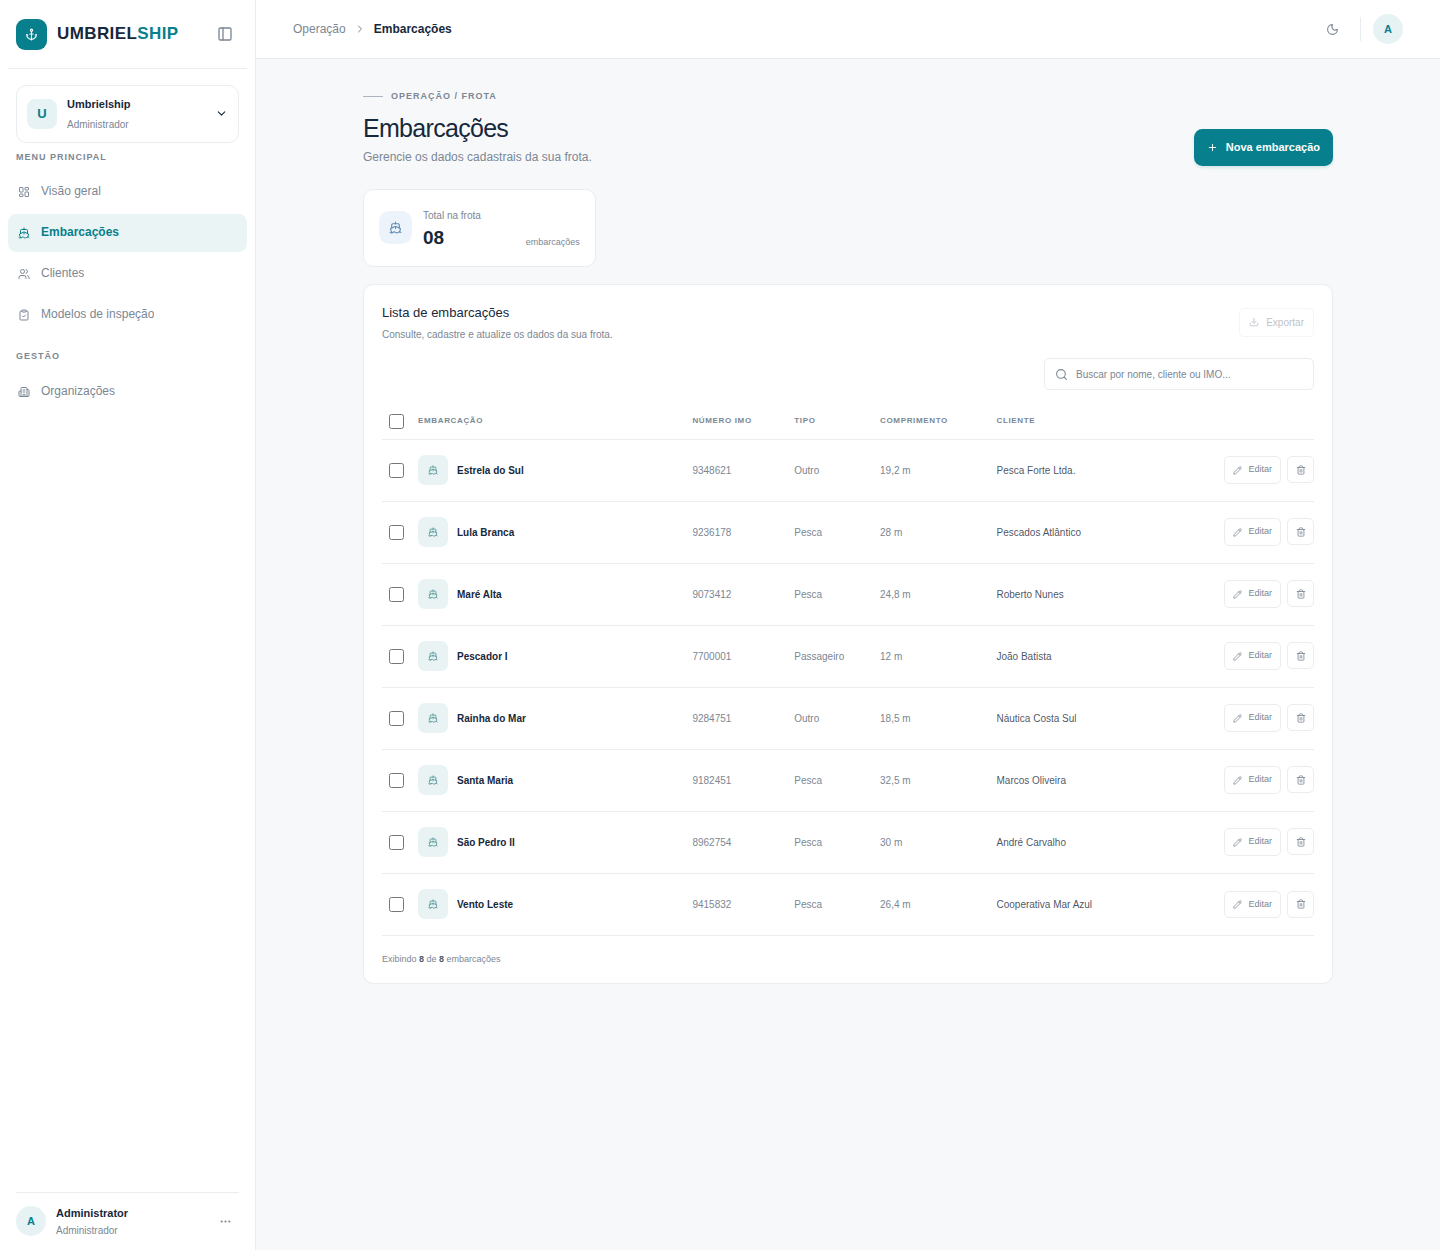
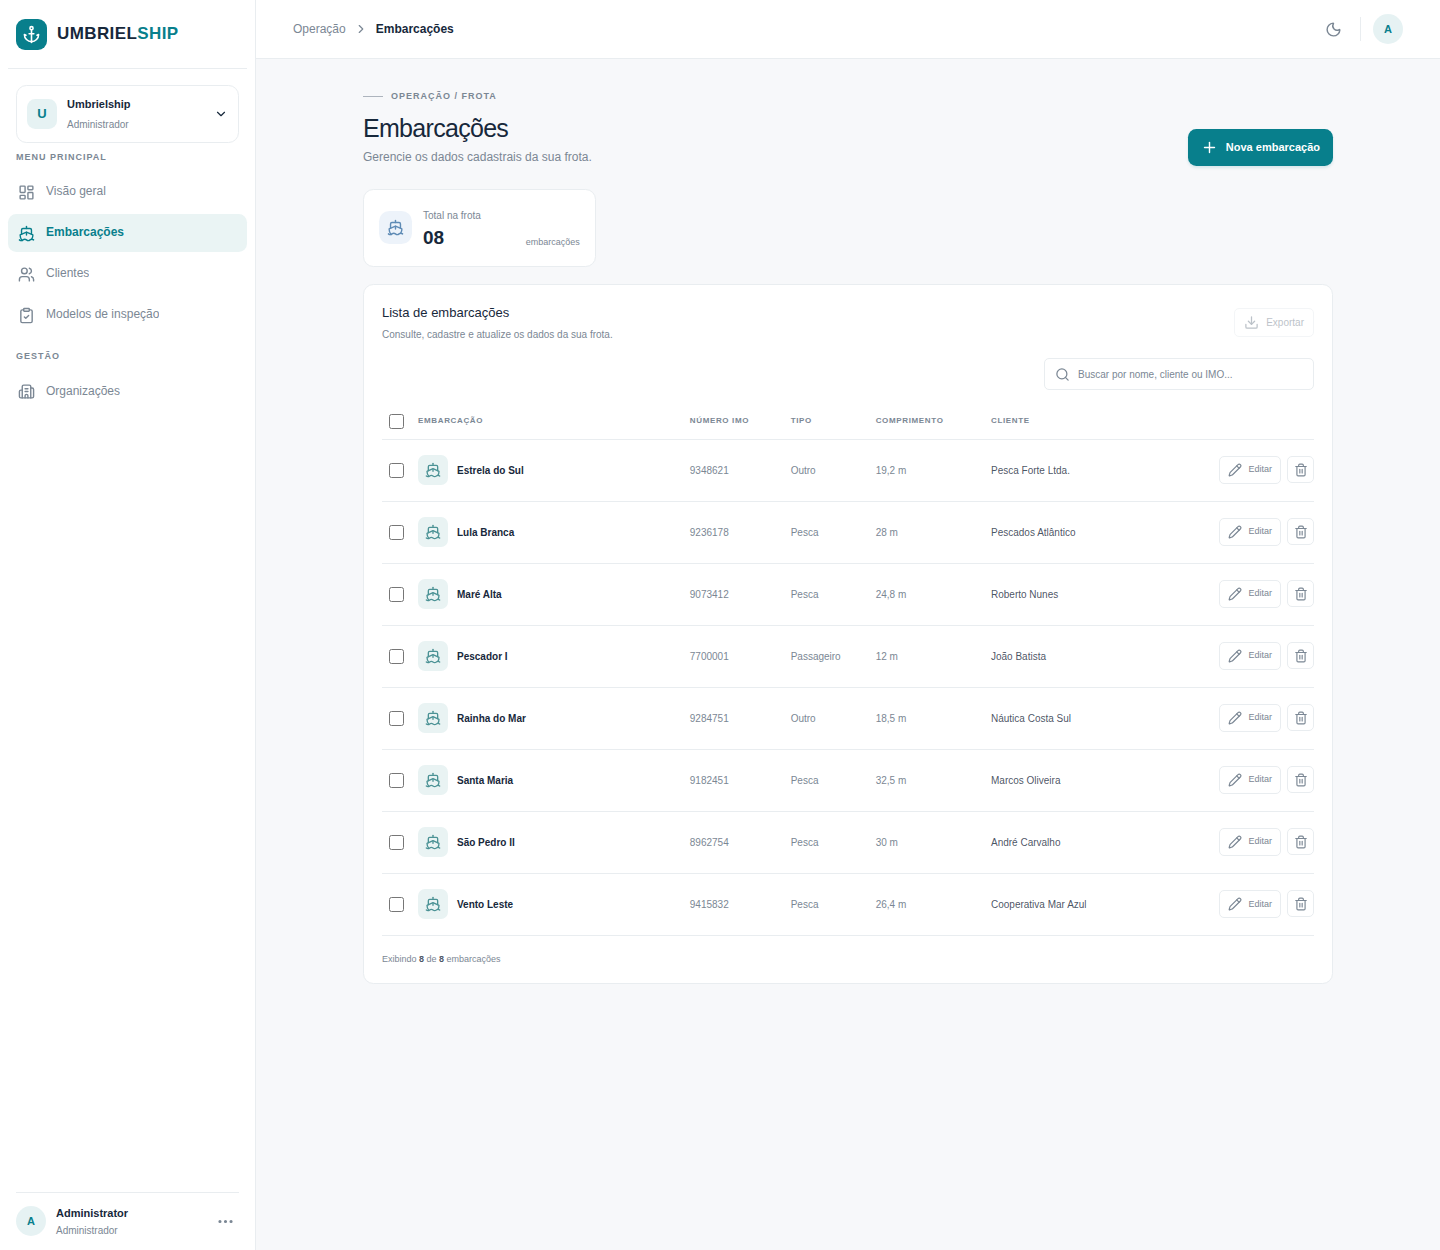
docs(specs): close the customer UI redesign findings and retake the pictures

diff --git a/.specs/features/customer-ui-redesign/verification.md b/.specs/features/customer-ui-redesign/verification.md
@@ -71,9 +71,9 @@ Diff reviewed: `34f79a9..3b4c083`. The full web suite (`ng test`, 36 files, 155 
 
 | Finding | Evidence | Fix | Closed |
 | --- | --- | --- | --- |
-| 1. Editing the same record again after "Cancelar" opens the drawer with the cancelled typed values, not the record's values (AC 22, 42, 48) | V1 (`Editar Atlantic` -> type -> Cancelar -> `Editar Atlantic`): `expected 'Typed and cancelled' to be 'Atlantic'`; V2 (vessel list) and V10 (Vessel detail): `expected 'Typed and cancelled' to be 'Aurora'`. `closeSheet()` keeps `editing()` (customer-list.ts:106, vessel-list.ts:121) and the detail binds `[vessel]="vessel()"`, so the input never changes and the form's `effect` on `customer()` / `vessel()` does not run again; C22, C42 and C48 open the drawer once | refill the form on every open (call the form's fill from `openEdit` / `openEditVesselSheet`, or clear `editing` on close), and add Editar -> type -> Cancelar -> Editar to C22, C42 and C48 | |
-| 2. Deleting the only WorkOrder of page 2 (11 -> 10) leaves the Vessel detail on an empty page 2 that says "Nenhuma ordem vinculada" with no pager back, while the Vessel still has 10 WorkOrders (AC 49, 51, 52) | V3: after the delete and the reload of `skip=10` (`[]`, total 10) the page shows `orders-empty` and no `t-pagination`. The diff hides the pager at `total <= 10` (vessel-detail.html:102) and moved its `ng-content` into the non-empty branch (work-order-list.ts:102); before, it was always rendered. `deleteWorkOrder` never moves `page` back. C52 never asserts "10 -> one page" | after a delete clamp `page` to `Math.max(1, Math.ceil(total / 10))` (or step back when the reloaded page is empty), and test 11 -> page 2 -> delete -> page 1 with 10 rows and no pager, plus 10 WorkOrders -> no pager | |
-| 3. The Vessel detail now prints WorkOrder dates in UTC, so a docking entered late in the evening in Brazil shows the next day, and disagrees with the WorkOrder page (AC 49) | V9 with `TZ=America/Sao_Paulo`: `new Date('2026-11-10T22:00').toISOString()` (what `work-order-form` posts) renders `11 de novembro de 2026` in `work-order-list-ui`; the diff added `: 'UTC'` to both date pipes (work-order-list.ts:62, 68) while `work-order-detail.ts:93` still formats in local time. C49's fixture is `12:00Z`, the same day in every zone | drop the `'UTC'` argument as before the diff, and give C49 a fixture near midnight local time | |
-| 4. On a phone, picking the menu item of the page already open leaves the sidebar panel open (AC 9) | V4: on `/customers`, "Abrir menu" then "Clientes" -> `openMobile()` stays `true`; the panel closes only on `NavigationEnd` (internal-layout.ts:342-351), which a same-URL navigation does not emit. C9 starts from `/` and picks another route | close the panel on the menu link's click (or on `NavigationSkipped` as well), and test picking the open page's item | |
-| 5. The token proofs of C3 and C4 check a subset of Landing door 3, so a wrong value in 16 tokens stays green | C3's grep covers 15 of 21 light tokens, anywhere in `styles.css` (not inside `:root`), missing `--card`, `--popover`, `--secondary-foreground`, `--accent-foreground`, `--input`, `--sidebar-border`; C4's awk covers 10 of 20 dark tokens, missing `--popover`, `--primary-foreground`, `--secondary`, `--secondary-foreground`, `--muted`, `--accent`, `--accent-foreground`, `--destructive`, `--input`, `--ring`. Every value in `styles.css` matches the plan today (checked by hand; built CSS has `--default-font-family: Arial, Helvetica, sans-serif` and `body{...font-size:13px}`) | grep every token of door 3, the light ones inside the `:root` block and the dark ones inside `.dark` | |
-| 6. The diff deletes `inspection-layout.spec.ts`, the only test of inspection AC 32 (the layout header scrolls with the page below 640 px); the new topbar is not sticky, so the rule holds today with no test guarding it | `git diff 34f79a9..HEAD` removes `web/src/package/work-order/inspection/__test__/inspection-layout.spec.ts`; no check of this plan names the rule; `checks.md` `Run web` still includes the deleted path | add an `app-shell.spec.ts` assertion that the topbar carries no `sticky` below `sm`, and drop the dead include from `Run web` | |
+| 1. Editing the same record again after "Cancelar" opens the drawer with the cancelled typed values, not the record's values (AC 22, 42, 48) | V1 (`Editar Atlantic` -> type -> Cancelar -> `Editar Atlantic`): `expected 'Typed and cancelled' to be 'Atlantic'`; V2 (vessel list) and V10 (Vessel detail): `expected 'Typed and cancelled' to be 'Aurora'`. `closeSheet()` keeps `editing()` (customer-list.ts:106, vessel-list.ts:121) and the detail binds `[vessel]="vessel()"`, so the input never changes and the form's `effect` on `customer()` / `vessel()` does not run again; C22, C42 and C48 open the drawer once | refill the form on every open (call the form's fill from `openEdit` / `openEditVesselSheet`, or clear `editing` on close), and add Editar -> type -> Cancelar -> Editar to C22, C42 and C48 | `420572b` - each drawer reloads the record on open; C22, C42, C48 now open, type, Cancelar and open again |
+| 2. Deleting the only WorkOrder of page 2 (11 -> 10) leaves the Vessel detail on an empty page 2 that says "Nenhuma ordem vinculada" with no pager back, while the Vessel still has 10 WorkOrders (AC 49, 51, 52) | V3: after the delete and the reload of `skip=10` (`[]`, total 10) the page shows `orders-empty` and no `t-pagination`. The diff hides the pager at `total <= 10` (vessel-detail.html:102) and moved its `ng-content` into the non-empty branch (work-order-list.ts:102); before, it was always rendered. `deleteWorkOrder` never moves `page` back. C52 never asserts "10 -> one page" | after a delete clamp `page` to `Math.max(1, Math.ceil(total / 10))` (or step back when the reloaded page is empty), and test 11 -> page 2 -> delete -> page 1 with 10 rows and no pager, plus 10 WorkOrders -> no pager | `420572b` - `deleteWorkOrder` steps back to the last page left; C52 `deleting the only order of page 2 goes back to page 1` (10 rows, no pager) |
+| 3. The Vessel detail now prints WorkOrder dates in UTC, so a docking entered late in the evening in Brazil shows the next day, and disagrees with the WorkOrder page (AC 49) | V9 with `TZ=America/Sao_Paulo`: `new Date('2026-11-10T22:00').toISOString()` (what `work-order-form` posts) renders `11 de novembro de 2026` in `work-order-list-ui`; the diff added `: 'UTC'` to both date pipes (work-order-list.ts:62, 68) while `work-order-detail.ts:93` still formats in local time. C49's fixture is `12:00Z`, the same day in every zone | drop the `'UTC'` argument as before the diff, and give C49 a fixture near midnight local time | `420572b` - `UTC` removed from both date pipes; C49 uses 22:00 local on 10 November |
+| 4. On a phone, picking the menu item of the page already open leaves the sidebar panel open (AC 9) | V4: on `/customers`, "Abrir menu" then "Clientes" -> `openMobile()` stays `true`; the panel closes only on `NavigationEnd` (internal-layout.ts:342-351), which a same-URL navigation does not emit. C9 starts from `/` and picks another route | close the panel on the menu link's click (or on `NavigationSkipped` as well), and test picking the open page's item | `420572b` - menu links close the panel on click; C9 `picking the open page item closes the panel too` |
+| 5. The token proofs of C3 and C4 check a subset of Landing door 3, so a wrong value in 16 tokens stays green | C3's grep covers 15 of 21 light tokens, anywhere in `styles.css` (not inside `:root`), missing `--card`, `--popover`, `--secondary-foreground`, `--accent-foreground`, `--input`, `--sidebar-border`; C4's awk covers 10 of 20 dark tokens, missing `--popover`, `--primary-foreground`, `--secondary`, `--secondary-foreground`, `--muted`, `--accent`, `--accent-foreground`, `--destructive`, `--input`, `--ring`. Every value in `styles.css` matches the plan today (checked by hand; built CSS has `--default-font-family: Arial, Helvetica, sans-serif` and `body{...font-size:13px}`) | grep every token of door 3, the light ones inside the `:root` block and the dark ones inside `.dark` | `420572b` - C3 checks all 21 light tokens inside `:root` and the body size inside its block, C4 all 20 dark tokens inside `.dark` |
+| 6. The diff deletes `inspection-layout.spec.ts`, the only test of inspection AC 32 (the layout header scrolls with the page below 640 px); the new topbar is not sticky, so the rule holds today with no test guarding it | `git diff 34f79a9..HEAD` removes `web/src/package/work-order/inspection/__test__/inspection-layout.spec.ts`; no check of this plan names the rule; `checks.md` `Run web` still includes the deleted path | add an `app-shell.spec.ts` assertion that the topbar carries no `sticky` below `sm`, and drop the dead include from `Run web` | `420572b` - C57 `the topbar scrolls with the page below 640 px`; the dead include left `Run web` |

diff --git a/.specs/features/customer-ui-redesign/checks.md b/.specs/features/customer-ui-redesign/checks.md
@@ -259,6 +259,6 @@ Proof: run web | ✓ vessel-detail.inspector.spec.ts > VesselDetail for an inspe
 
 - **Settled mid-build:** 2026-11-17, screens round 1, Q "Recolher menu: remover o botão / manter o botão" -> user: "Remover o botão (Recomendado)" (AD-031): C56 withdrawn, the brand button removed
 - **Dispatched:** Verifier at `2c92fae` (diff `34f79a9..2c92fae`) - returned FAIL, 6 findings; screens round 1 at `2c92fae` (pictures taken at `325531a`) - returned, 8 of 8 diverge
-- **Boundary:** C13, C14, C35 closed at `6d8faeb`; C1-C10, C56 at `962e85d`; C12, C15-C34, C36-C55 at `0ee5961`; C11 and the pictures at `325531a`
+- **Boundary:** C13, C14, C35 closed at `6d8faeb`; C1-C10, C56 at `962e85d`; C12, C15-C34, C36-C55 at `0ee5961`; C11 at `325531a`; the Verifier and screens round 1 findings, C57 and the withdrawal of C56 at `420572b`
 - **Abandoned:** the plan's example under AC 15 read "anchor co", "Ágata Pesca", "Barco Azul"; `localeCompare(…, 'pt-BR')`, the rule AC 15 and the mareos both name, gives "Ágata Pesca", "anchor co", "Barco Azul" (checked with node). The example was miscomputed when the plan was written; it is corrected in the plan and the rule is unchanged
-- **Walked:** an isolated stack started for the walk (PostgreSQL, Redis and Mailpit in new containers `cui-pg`, `cui-redis`, `cui-mailpit`; the API built from this checkout on 3334; `ng serve` on 4300 with a proxy to 3334), seeded through the API with eight fictional Customers, eight Vessels and one WorkOrder `IN_PROGRESS` on Santa Maria, and the seed Administrator given two more Memberships (operator in "Marina Serviços Navais", inspector in "Oceano Azul Reparos") in that database only. Headless Chrome over the DevTools protocol, signed in as the seed Administrator, saved every `*.running.png` at the capture's size: `/customers` and `/vessels` at 1440x1250; the Customer detail (Marcos Oliveira), the Vessel detail (Santa Maria), "Novo cliente", "Nova embarcação", the Organization menu (region 0,0-720,500) and the dark `/customers` at 1440x1000. Dark theme: sidebar `rgb(20, 30, 41)`, Customer name `rgb(229, 237, 244)` on `rgb(20, 30, 41)`, contrast 14.23:1. C11: `/customers`, `/customers/:id`, `/vessels` and `/vessels/:id` at 640, 768, 1024, 1280 and 1536 px; first run the lists overflowed at 640, 768 and 1024 (740, 996, 778, 1034, 1047) and the Vessel detail at 768 (832) because the `sr-only` header cells escaped their scroll wrappers; fixed in `325531a`, rewalked: `scrollWidth` equals `innerWidth` in all 20. Also seen in the walk and fixed in `325531a`: the lists were narrower than the capture (934 px against 970), and the Vessel detail drew a lone "1" pager. A user reaches the states from the sidebar (Clientes, Embarcações), a Customer name, a Vessel name, "Novo cliente", "Nova embarcação", "Selecionar organização" and the theme button. Outside the plan, surfaced not fixed: `POST /customers` with `"phone": null` answers 500 (the column is NOT NULL while the body schema accepts null)
+- **Walked:** an isolated stack started for the walk (PostgreSQL, Redis and Mailpit in new containers `cui-pg`, `cui-redis`, `cui-mailpit`; the API built from this checkout on 3334; `ng serve` on 4300 with a proxy to 3334), seeded through the API with eight fictional Customers, eight Vessels and one WorkOrder `IN_PROGRESS` on Santa Maria, and the seed Administrator given two more Memberships (operator in "Marina Serviços Navais", inspector in "Oceano Azul Reparos") in that database only. Headless Chrome over the DevTools protocol, signed in as the seed Administrator, saved every `*.running.png` at the capture's size: `/customers` and `/vessels` at 1440x1250; the Customer detail (Marcos Oliveira), the Vessel detail (Santa Maria), "Novo cliente", "Nova embarcação", the Organization menu (region 0,0-720,500) and the dark `/customers` at 1440x1000. Dark theme: sidebar `rgb(20, 30, 41)`, Customer name `rgb(229, 237, 244)` on `rgb(20, 30, 41)`, contrast 14.23:1. C11: `/customers`, `/customers/:id`, `/vessels` and `/vessels/:id` at 640, 768, 1024, 1280 and 1536 px; first run the lists overflowed at 640, 768 and 1024 (740, 996, 778, 1034, 1047) and the Vessel detail at 768 (832) because the `sr-only` header cells escaped their scroll wrappers; fixed in `325531a`, rewalked: `scrollWidth` equals `innerWidth` in all 20. Also seen in the walk and fixed in `325531a`: the lists were narrower than the capture (934 px against 970), and the Vessel detail drew a lone "1" pager. A user reaches the states from the sidebar (Clientes, Embarcações), a Customer name, a Vessel name, "Novo cliente", "Nova embarcação", "Selecionar organização" and the theme button. After screens round 1 (`420572b`): every picture retaken at `420572b`, with focus emulation on so the focused "Nome" draws its ring; the Organization menu picture is now the window's region 0,0-1296,900 scaled to 720x500, the framing of its capture. Outside the plan, surfaced not fixed: `POST /customers` with `"phone": null` answers 500 (the column is NOT NULL while the body schema accepts null)
